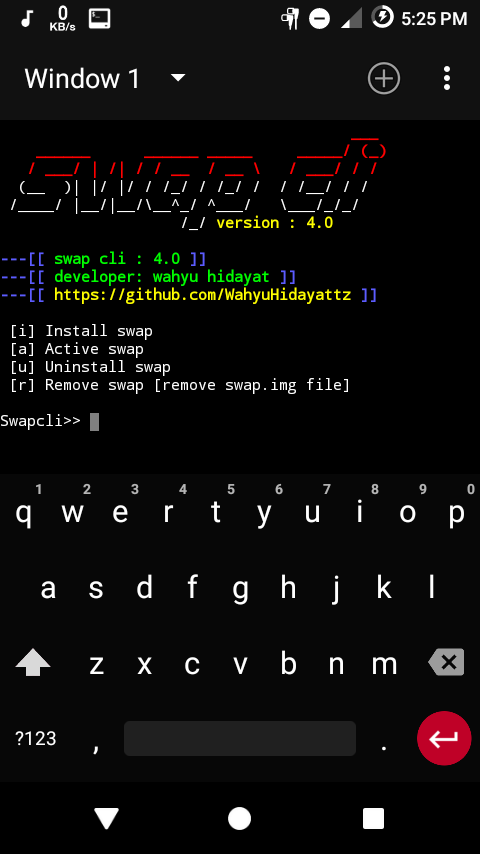
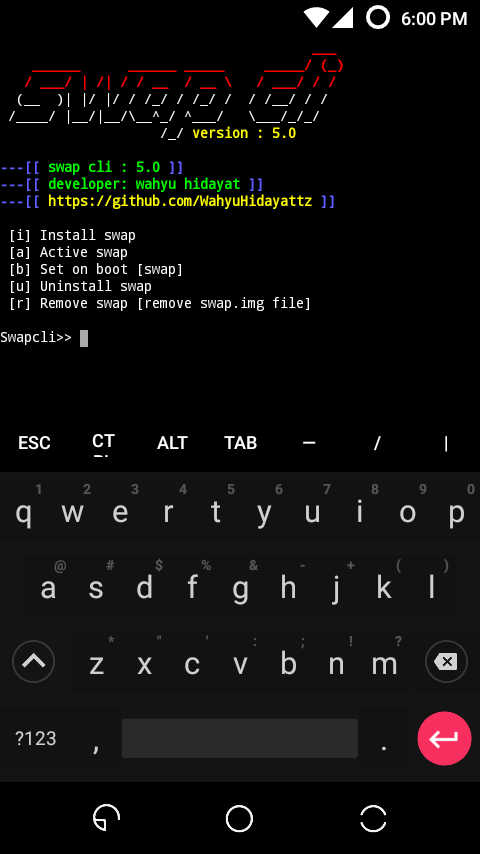
swapcli

diff --git a/README.md b/README.md
@@ -34,7 +34,7 @@ root@android:~# sh swapcli.sh
 
 __B. Automatic by flashing swap-cli into recovery.__
 
-- Download file `swapcli 4.0.zip` on link : <http://kuya/swapcli.zip>
+- Download file `swapcli 5.0.zip` on link : <https://drive.google.com/file/d/0B5SpWSpauPDuNy1CQkc2Ml9iZjA/view?usp=drivesdk>
 
 - Flash into custom recovery
 
@@ -58,6 +58,14 @@ root@android:~# swapcli
 ----
 
 __Changelog :__
+
+__swap-cli 5.0__
+
+```
+[+] Add set swap on boot
+[+] Fixing some minor bug
+[+] Fixing uninstall swap
+```
 
 __swap-cli 4.0__
 
